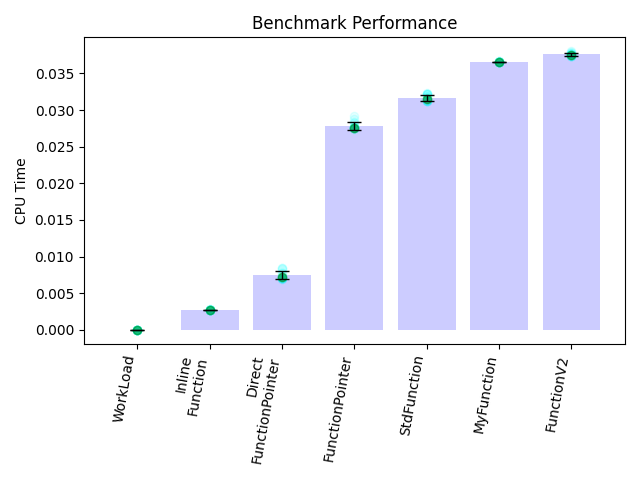
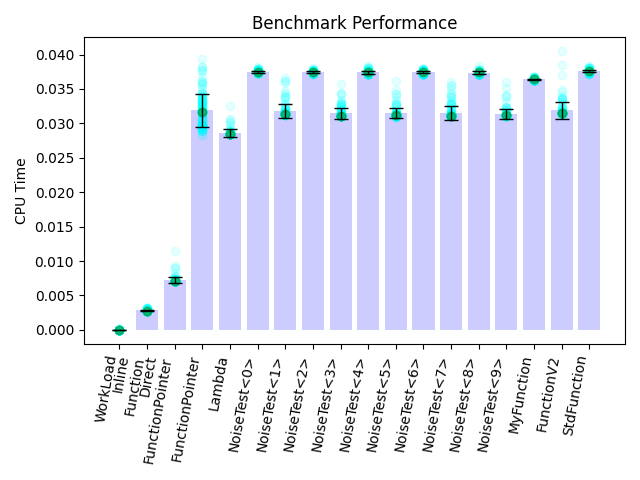
[test]

diff --git a/src/benchmark/auto_delegate_bench_mark.cpp b/src/benchmark/auto_delegate_bench_mark.cpp
@@ -115,9 +115,9 @@ static constexpr size_t class_count = 1 << 2;
 static constexpr size_t object_count = 1 << 12;
 static constexpr size_t per_class_count = object_count / class_count;
 
-const auto min_warm_up = 1 << 10;
+const auto min_warm_up = 1 << 15;
 #ifdef NDEBUG
-const uint64_t invoke_count = 1 << 12;
+const uint64_t invoke_count = 1 << 10;
 #else
 const uint64_t invoke_count = 1 << 2;
 #endif
@@ -398,7 +398,7 @@ static void BM_Lambda(benchmark::State& state)
         }
     }
 }
-// BENCHMARK(BM_Lambda)BENCHMARK_ARGS;
+BENCHMARK(BM_Lambda)BENCHMARK_ARGS;
 
 
 
@@ -427,6 +427,40 @@ static void BM_Virtual_FunctionPointer(benchmark::State& state)
 }
 //BENCHMARK(BM_Virtual_FunctionPointer)BENCHMARK_ARGS;
 
+template<size_t>
+static void BM_NoiseTest(benchmark::State& state)
+{
+    std::vector<std::function<void(ARG_LIST)>> funcs;
+    funcs.reserve(object_count);
+
+    ForEachObject([&]<size_t I>(auto&& o, index_tag<I>)
+                  {
+                      funcs.emplace_back([o](ARG_LIST)
+                                         {
+                                             o->function(ARG_LIST_FORWARD);
+                                         });
+                  });
+
+    for (auto _: state)
+    {
+        for (auto& f: funcs)
+        {
+            f(INVOKE_PARAMS);
+        }
+    }
+}
+BENCHMARK(BM_NoiseTest<0>)BENCHMARK_ARGS;
+BENCHMARK(BM_NoiseTest<1>)BENCHMARK_ARGS;
+BENCHMARK(BM_NoiseTest<2>)BENCHMARK_ARGS;
+BENCHMARK(BM_NoiseTest<3>)BENCHMARK_ARGS;
+BENCHMARK(BM_NoiseTest<4>)BENCHMARK_ARGS;
+BENCHMARK(BM_NoiseTest<5>)BENCHMARK_ARGS;
+BENCHMARK(BM_NoiseTest<6>)BENCHMARK_ARGS;
+BENCHMARK(BM_NoiseTest<7>)BENCHMARK_ARGS;
+BENCHMARK(BM_NoiseTest<8>)BENCHMARK_ARGS;
+BENCHMARK(BM_NoiseTest<9>)BENCHMARK_ARGS;
+
+
 
 static void BM_StdFunction(benchmark::State& state)
 {
@@ -441,7 +475,28 @@ static void BM_StdFunction(benchmark::State& state)
                                          });
                   });
 
-//    static_assert(sizeof(std::function<void(ARG_LIST)>) == 32);
+    for (auto _: state)
+    {
+        for (auto& f: funcs)
+        {
+            f(INVOKE_PARAMS);
+        }
+    }
+}
+
+
+static void BM_MyFunction(benchmark::State& state)
+{
+    std::vector<function<void(ARG_LIST), 16>> funcs;
+    funcs.reserve(object_count);
+
+    ForEachObject([&]<size_t I>(auto&& o, index_tag<I>)
+                  {
+                      funcs.emplace_back([o](ARG_LIST)
+                                         {
+                                             o->function(ARG_LIST_FORWARD);
+                                         });
+                  });
 
     for (auto _: state)
     {
@@ -452,11 +507,10 @@ static void BM_StdFunction(benchmark::State& state)
     }
 }
 
-BENCHMARK(BM_StdFunction)BENCHMARK_ARGS;
 
-static void BM_MyFunction(benchmark::State& state)
+static void BM_FunctionV2(benchmark::State& state)
 {
-    std::vector<function<void(ARG_LIST)>> funcs;
+    std::vector<function_v2::function<void(ARG_LIST), 16>> funcs;
     funcs.reserve(object_count);
 
     ForEachObject([&]<size_t I>(auto&& o, index_tag<I>)
@@ -477,30 +531,9 @@ static void BM_MyFunction(benchmark::State& state)
 }
 
 BENCHMARK(BM_MyFunction)BENCHMARK_ARGS;
-
-static void BM_FunctionV2(benchmark::State& state)
-{
-    std::vector<function_v2::function<void(ARG_LIST)>> funcs;
-    funcs.reserve(object_count);
-
-    ForEachObject([&]<size_t I>(auto&& o, index_tag<I>)
-                  {
-                      funcs.emplace_back([o](ARG_LIST)
-                                         {
-                                             o->function(ARG_LIST_FORWARD);
-                                         });
-                  });
-
-    for (auto _: state)
-    {
-        for (auto& f: funcs)
-        {
-            f(INVOKE_PARAMS);
-        }
-    }
-}
-
 BENCHMARK(BM_FunctionV2)BENCHMARK_ARGS;
+BENCHMARK(BM_StdFunction)BENCHMARK_ARGS;
+
 
 
 static void BM_DefaultMulticast_InvokeAction(benchmark::State& state)

diff --git a/benchmark_display.py b/benchmark_display.py
@@ -6,7 +6,11 @@ import sys
 
 # 运行Google Benchmark并捕获输出
 def run_benchmark(executable, options):
-    command = f"{executable} {options}"
+    if sys.platform.startswith('linux'):
+        command = f"{executable} {options}"
+    else:
+        command = f"{executable} {options}"
+    
     process = subprocess.run('xmake f -m release -a x64 -y', shell=True, text=True)
     print(process.stdout)
     process = subprocess.run('xmake build DelegateBenchmark', shell=True, text=True)
@@ -33,7 +37,7 @@ def main():
         executable = os.getcwd() + r"/build/windows/x64/release/DelegateBenchmark.exe"
     elif sys.platform.startswith('linux'):
         executable = os.getcwd() + r"/build/linux/x64/release/DelegateBenchmark"
-    options = f"--benchmark_repetitions=16 --benchmark_format=json --benchmark_out={benchmark_file}"
+    options = f"--benchmark_repetitions=128 --benchmark_format=json --benchmark_out={benchmark_file}"
 
     #check exist for executable
     if not os.path.exists(executable):
